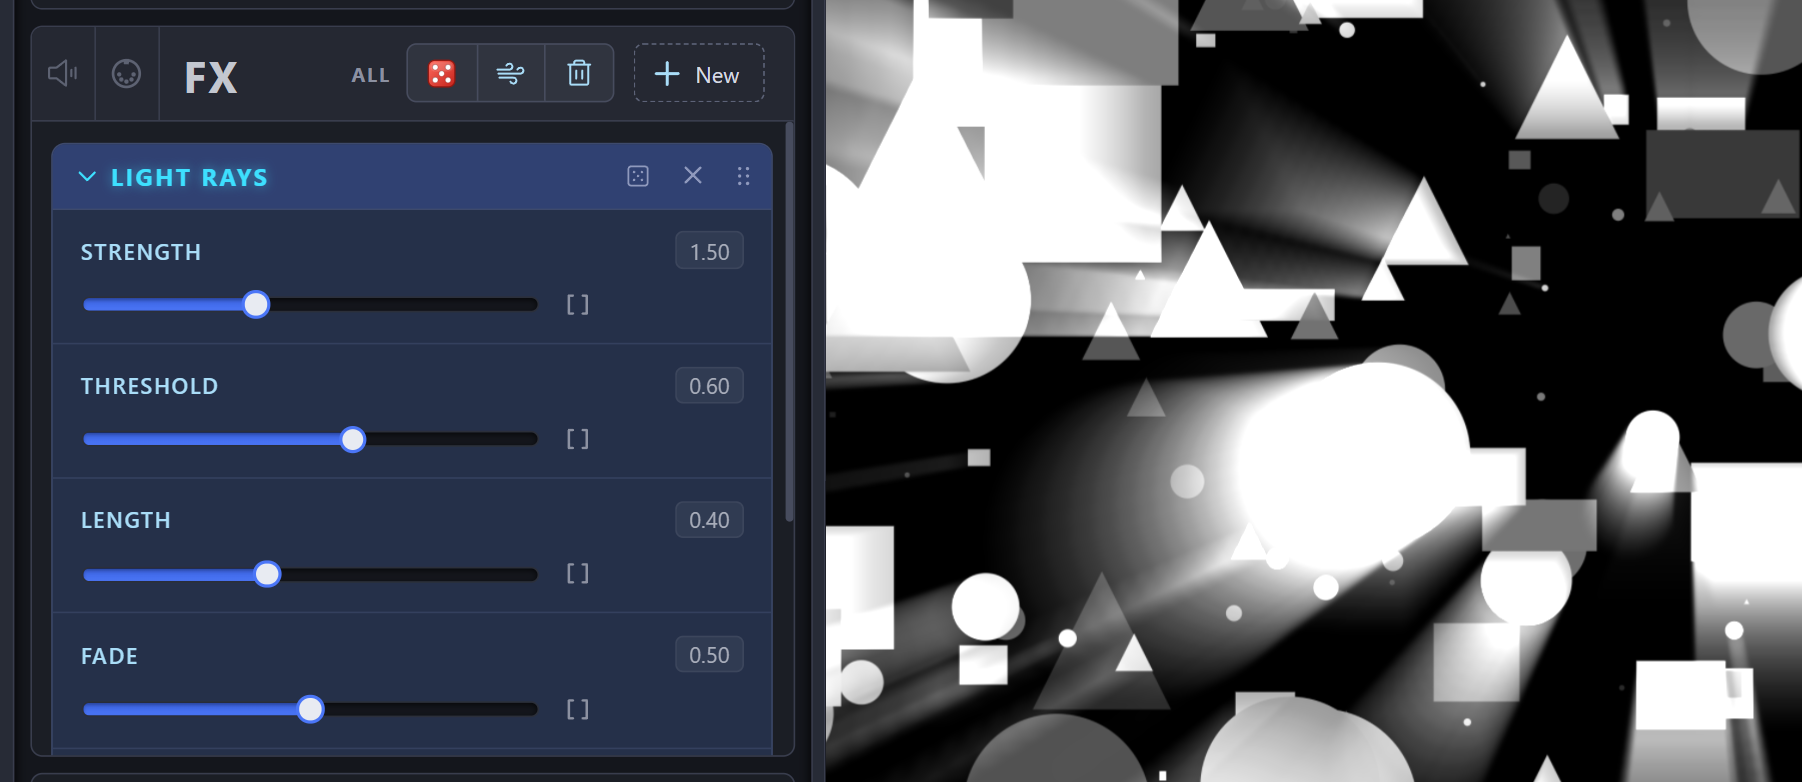
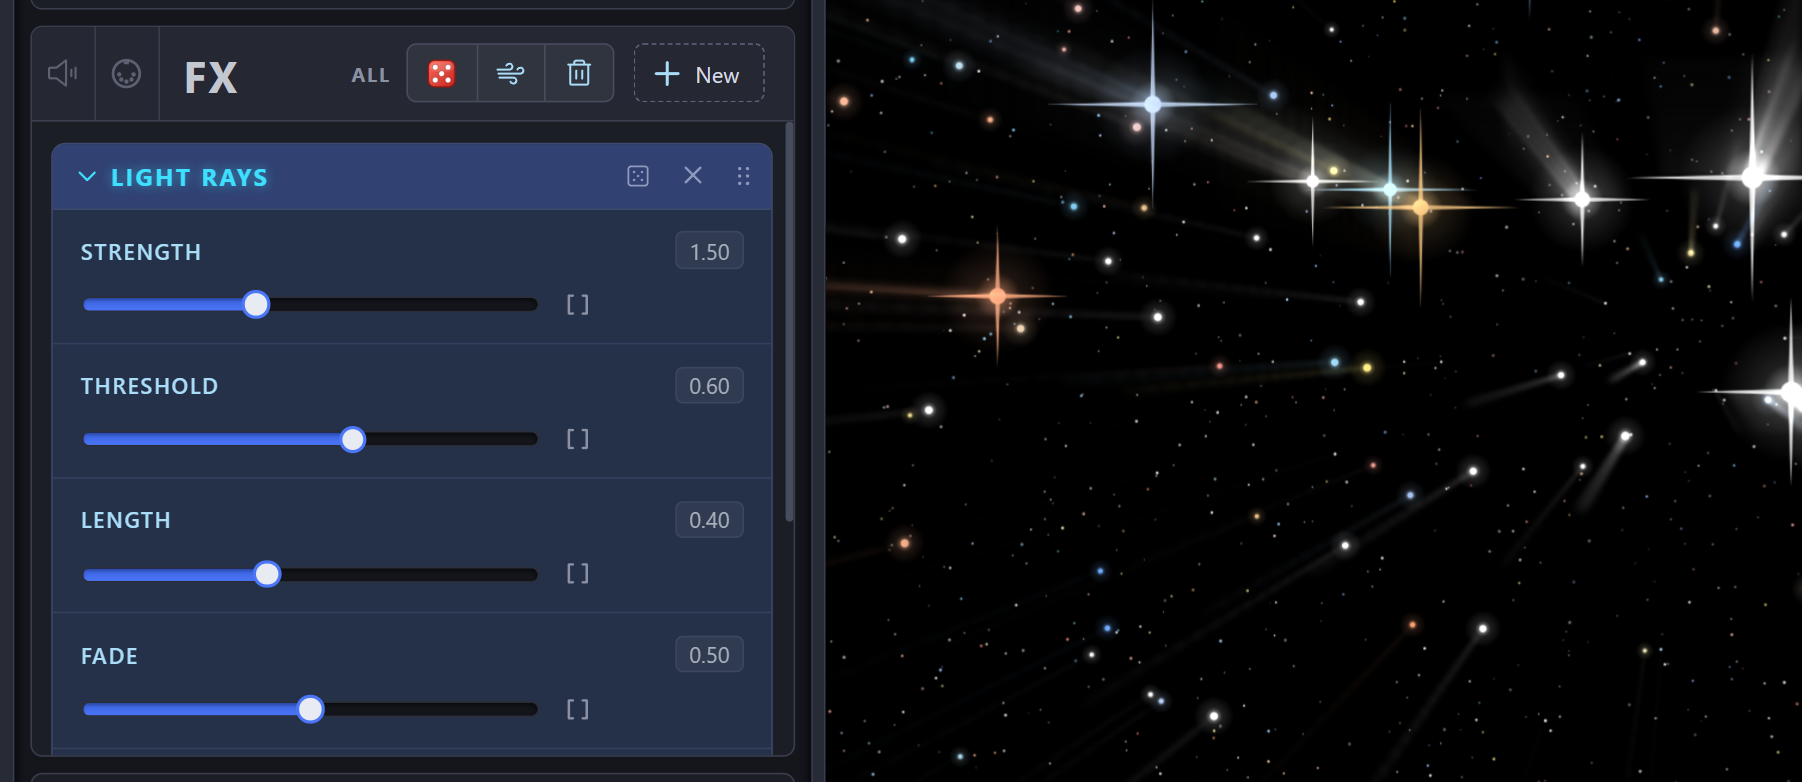
0.31.0: help and README for the 3D model effect, object-only effects, shared space and the new patterns

diff --git a/src/help/shots/effects.ts b/src/help/shots/effects.ts
@@ -115,12 +115,12 @@ const modelTile = (page: Page): HTMLElement => {
 
 export const EFFECTS: Shot[] = [
   /* Effects that shape space */
-  look({ effect: "Kaleidoscope", name: "kaleidoscope", pattern: "Random shapes" }),
-  look({ effect: "Kaleidoscope", name: "kaleidoscope-penrose", pattern: "Random shapes", adjust: (page) => pickMenu(page, "Kaleidoscope", "Type", "Penrose"), wide: true }),
-  look({ effect: "Kaleidoscope", name: "kaleidoscope-sphere", pattern: "Random shapes", adjust: (page) => pickMenu(page, "Kaleidoscope", "Type", "Sphere"), wide: true }),
-  look({ effect: "Kaleidoscope", name: "kaleidoscope-pinwheel", pattern: "Random shapes", adjust: (page) => pickMenu(page, "Kaleidoscope", "Type", "Pinwheel"), wide: true }),
-  look({ effect: "Kaleidoscope", name: "kaleidoscope-tunnel", pattern: "Random shapes", adjust: (page) => pickMenu(page, "Kaleidoscope", "Type", "Mirror tunnel"), wide: true }),
-  look({ effect: "Kaleidoscope", name: "kaleidoscope-fractal", pattern: "Random shapes", adjust: (page) => pickMenu(page, "Kaleidoscope", "Type", "Fractal"), wide: true }),
+  look({ effect: "Kaleidoscope", name: "kaleidoscope", pattern: "Truchet tiles" }),
+  look({ effect: "Kaleidoscope", name: "kaleidoscope-penrose", pattern: "Truchet tiles", adjust: (page) => pickMenu(page, "Kaleidoscope", "Type", "Penrose"), wide: true }),
+  look({ effect: "Kaleidoscope", name: "kaleidoscope-sphere", pattern: "Truchet tiles", adjust: (page) => pickMenu(page, "Kaleidoscope", "Type", "Sphere"), wide: true }),
+  look({ effect: "Kaleidoscope", name: "kaleidoscope-pinwheel", pattern: "Truchet tiles", adjust: (page) => pickMenu(page, "Kaleidoscope", "Type", "Pinwheel"), wide: true }),
+  look({ effect: "Kaleidoscope", name: "kaleidoscope-tunnel", pattern: "Truchet tiles", adjust: (page) => pickMenu(page, "Kaleidoscope", "Type", "Mirror tunnel"), wide: true }),
+  look({ effect: "Kaleidoscope", name: "kaleidoscope-fractal", pattern: "Truchet tiles", adjust: (page) => pickMenu(page, "Kaleidoscope", "Type", "Fractal"), wide: true }),
   look({ effect: "Algorithm", name: "algorithm", pattern: "Color grid", wait: 2500 }),
   look({ effect: "Warp", name: "warp" }),
   look({ effect: "Camera", name: "camera", wait: 2500 }),
@@ -148,19 +148,41 @@ export const EFFECTS: Shot[] = [
   look({ effect: "3D object", name: "solid", pattern: "Color grid", wait: 2500, wide: true }),
   {
     /**
-     * The model browser, which the Model shape opens when it has no model.
-     * It needs the internet. The browser's kept choices are set to a known
-     * start (Poly Haven, no search words, small pictures) and put back by
-     * the last shot of the group.
+     * Effects for the object only: a Kaleidoscope below the 3D object, with
+     * its check box set, mirrors the picture on the cube and not the
+     * background. The 3D object's controls must be open for the picture.
      */
-    name: "fx-solid-model-browser",
+    name: "fx-solid-effects",
     needs: "blank",
-    group: "fx-solid-model",
+    group: "fx-solid",
+    setup: async (page) => {
+      await addEffect(page, "Kaleidoscope");
+      if (!effectGroup(page, "3D object").classList.contains("open")) {
+        effectGroup(page, "3D object").querySelector<HTMLElement>(".panel-group-title")!.click();
+        await page.settle(500);
+      }
+      effectGroup(page, "3D object").querySelector<HTMLInputElement>(".panel-object-effects input")!.click();
+      effectGroup(page, "3D object").scrollIntoView({ block: "start" });
+      await page.settle(2500);
+    },
+    cursor: (page) => effectGroup(page, "3D object").querySelector(".panel-object-effects label")!,
+    cursorAt: [0.1, 0.6],
+    box: besidePicture(true)
+  },
+  {
+    /**
+     * The model browser, which a new 3D model effect opens when the scene
+     * has no model. It needs the internet. The browser's kept choices are
+     * set to a known start (Poly Haven, no search words, small pictures)
+     * and put back by the last shot of the group.
+     */
+    name: "fx-model-browser",
+    needs: "blank",
+    group: "fx-model",
     setup: async (page) => {
       keptBrowser = localStorage.getItem(MODEL_BROWSER_KEY);
       localStorage.setItem(MODEL_BROWSER_KEY, JSON.stringify({ source: "haven", words: "", category: "", order: "used", size: "1k" }));
-      await addEffect(page, "3D object");
-      await pickMenu(page, "3D object", "Shape", "Model");
+      await addEffect(page, "3D model");
       await page.waitFor(".model-browser-dialog");
       /** The list comes from Poly Haven; then the first pictures must load. */
       const end = Date.now() + 60000;
@@ -175,10 +197,10 @@ export const EFFECTS: Shot[] = [
     margin: [2, 20]
   },
   {
-    /** A click on the model downloads it; the picture shows the model with its own colors, beside the Model shape's settings. */
-    name: "fx-solid-model",
+    /** A click on the model downloads it; the picture shows the model with its own colors, beside the effect's settings. */
+    name: "fx-model",
     needs: "blank",
-    group: "fx-solid-model",
+    group: "fx-model",
     setup: async (page) => {
       modelTile(page).click();
       const end = Date.now() + 120000;
@@ -189,19 +211,25 @@ export const EFFECTS: Shot[] = [
     box: besidePicture(true)
   },
   {
-    /** The File row of the Model shape with the mouse on Browse, and the Pivot menu and the turn settings below it. */
-    name: "fx-solid-model-file",
+    /** The File row with the mouse on Search, and the Map menu and Map amount below it. */
+    name: "fx-model-file",
     needs: "blank",
-    group: "fx-solid-model",
-    /** A tall page, so the panel shows all six turn settings at one time. */
-    page: { width: 1280, height: 1250 },
+    group: "fx-model",
+    cursor: (page) => effectGroup(page, "3D model").querySelector('button[aria-label="Search for a 3D model"]')!,
+    target: (page) => [menuRow(page, "3D model", "File"), settingRow(page, "Map amount")],
+    margin: 22
+  },
+  {
+    /** A 3D object next to the 3D model in the list: its cube and the model are in one space, and go through each other. */
+    name: "fx-model-shared",
+    needs: "blank",
+    group: "fx-model",
     setup: async (page) => {
-      menuRow(page, "3D object", "File").scrollIntoView({ block: "start" });
-      await page.settle(300);
+      await addEffect(page, "3D object");
+      await pickMenu(page, "3D object", "Shape", "Cube");
+      await page.settle(3000);
     },
-    cursor: (page) => Array.from(effectGroup(page, "3D object").querySelectorAll<HTMLElement>("button")).find((item) => item.textContent?.trim().startsWith("Browse"))!,
-    target: (page) => [menuRow(page, "3D object", "File"), settingRow(page, "Spin Z")],
-    margin: 22,
+    box: besidePicture(true),
     cleanup: () => {
       if (keptBrowser === null) localStorage.removeItem(MODEL_BROWSER_KEY);
       else localStorage.setItem(MODEL_BROWSER_KEY, keptBrowser);
@@ -224,13 +252,13 @@ export const EFFECTS: Shot[] = [
     wait: 9000,
     wide: true
   }),
-  look({ effect: "Light rays", name: "rays", pattern: "Random shapes" }),
+  look({ effect: "Light rays", name: "rays", pattern: "Star field" }),
   look({ effect: "Lasers", name: "lasers", pattern: "Solid Black", wait: 2500, wide: true }),
-  look({ effect: "Light cone", name: "cone", pattern: "Random shapes", wait: 2500, wide: true }),
+  look({ effect: "Light cone", name: "cone", pattern: "Star field", wait: 2500, wide: true }),
   look({
     effect: "Light cone",
     name: "cone-shell",
-    pattern: "Random shapes",
+    pattern: "Star field",
     adjust: async (page) => {
       await pickMenu(page, "Light cone", "Type", "Laser shell");
       await pickMenu(page, "Light cone", "Shape", "Pyramid");
@@ -252,10 +280,10 @@ export const EFFECTS: Shot[] = [
     margin: 22
   },
   look({ effect: "Particles", name: "particles", pattern: "Color grid", adjust: (page) => setSlider(page, "Background", 0.15), wait: 6000 }),
-  look({ effect: "Bloom", name: "bloom", pattern: "Random shapes" }),
+  look({ effect: "Bloom", name: "bloom", pattern: "Star field" }),
 
   /* Effects for time, texture and color */
-  look({ effect: "Trails", name: "trails", pattern: "Random shapes", under: "Kaleidoscope", wait: 4000 }),
+  look({ effect: "Trails", name: "trails", pattern: "Sunburst", under: "Kaleidoscope", wait: 4000 }),
   look({
     effect: "Time smear",
     name: "smear",
@@ -279,7 +307,7 @@ export const EFFECTS: Shot[] = [
     target: (page) => [page.find(".tone-chips").closest(".panel-row") ?? page.find(".tone-chips")],
     margin: 22
   },
-  look({ effect: "Relief", name: "relief", pattern: "Random shapes", adjust: (page) => setSlider(page, "Relief depth", 0.6) }),
+  look({ effect: "Relief", name: "relief", pattern: "Rings", adjust: (page) => setSlider(page, "Relief depth", 0.6) }),
   look({ effect: "Pixel sort", name: "sort", pattern: "Color clouds" }),
   look({ effect: "Driver", name: "driver", wait: 2500 }),
   {
@@ -292,7 +320,7 @@ export const EFFECTS: Shot[] = [
       await page.settle(600);
     }
   },
-  look({ effect: "Text", name: "text", pattern: "Random shapes", adjust: (page) => setSlider(page, "Glow", 0.5), wide: true }),
+  look({ effect: "Text", name: "text", pattern: "Contour lines", adjust: (page) => setSlider(page, "Glow", 0.5), wide: true }),
   {
     /** The Text effect's Font box with the focus in it and its list open. */
     name: "fx-text-font",

diff --git a/src/help/chapters/EffectsSpace.tsx b/src/help/chapters/EffectsSpace.tsx
@@ -5,13 +5,13 @@ export function EffectsSpace() {
     <>
       <h1>Effects that shape space</h1>
       <p className="help-lead">
-        These seven effects change where each part of the picture goes. They mirror it, bend it, put it on
+        These eight effects change where each part of the picture goes. They mirror it, bend it, put it on
         a 3D shape, or fly a camera over it. Most scenes start with one of them.
       </p>
 
       <h2>How to read the effect chapters</h2>
       <p>
-        This chapter and the two after it describe all 29 effects. For each effect you find its function,
+        This chapter and the two after it describe all 30 effects. For each effect you find its function,
         the choices of its menus, and the settings that change the result most. Each picture shows the
         effect in a new scene, with its controls open in the <b>FX</b> card and the result beside them.
       </p>
@@ -184,34 +184,52 @@ export function EffectsSpace() {
       <Shot name="fx-solid" alt="The 3D object effect with a cube that carries the picture" side="block" />
       <p>
         3D object puts the picture on a shape that turns in space. The <b>Shape</b> menu has
-        twelve shapes: Sphere, Cube, Morph, Blobs, Wobbly ball, Spike ball, Octahedron, Icosahedron,
-        Pyramid, Menger sponge, Moravian star, and Model. Some shapes show more settings below the menu, such
+        eleven shapes: Sphere, Cube, Morph, Blobs, Wobbly ball, Spike ball, Octahedron, Icosahedron,
+        Pyramid, Menger sponge, and Moravian star. Some shapes show more settings below the menu, such
         as <b>Spikes</b> for the Spike ball or <b>Points</b> for the Moravian star.
       </p>
       <p>
-        The <b>Map</b> menu sets how the shape uses the picture. <b>Wrap</b> paints the picture on the
-        surface. <b>Project</b> makes the shape a glass lens that bends the picture behind
-        it. <b>Mirror</b> makes it chrome that reflects the picture.
-      </p>
-      <p>
         The <b>Source</b> menu selects the picture for the shape: <b>Slot A</b>, <b>Slot B</b>, or a file
-        of its own with <b>Image or Video</b>. <b>Spin</b> and <b>Tumble</b> turn the shape, <b>Tilt</b> leans
-        it, and <b>Shading</b>, <b>Shine</b> and <b>Shadow</b> set its light. <b>Background</b> sets how much
-        of the picture shows behind the shape.
+        of its own with <b>Image or Video</b>. The <b>Map</b> menu sets how the shape uses that
+        picture. <b>Wrap</b> paints the picture on the surface. <b>Project</b> makes the shape a glass
+        lens that bends the picture behind it. <b>Mirror</b> makes it chrome that reflects the picture.
       </p>
       <p>
-        With <b>Freeze background</b> on, the effects that come after the 3D object in the list change
-        only the picture on the shape. The background stays as it was.
+        <b>Spin</b> and <b>Tumble</b> turn the shape, <b>Tilt</b> leans it,
+        and <b>Shading</b>, <b>Shine</b> and <b>Shadow</b> set its light. <b>Center X</b>, <b>Center
+        Y</b> and <b>Center Z</b> move the shape left and right, up and down, and nearer and farther.
+        The effect draws only the shape. Around the shape you see the picture that the effects above it
+        made.
       </p>
 
-      <h3>A 3D model as the shape</h3>
-      <Shot name="fx-solid-model" alt="The 3D object effect with the Model shape and a model that shows its own colors" side="block" />
+      <h3>Effects for the object only</h3>
+      <Shot name="fx-solid-effects" alt="The list Effects for the object only with the mouse on the check box of Kaleidoscope, and a cube that shows the mirrored picture on a plain background" side="block" />
       <p>
-        The <b>Model</b> shape shows a 3D model from a file. In the <b>File</b> row, <b>Browse…</b> opens
-        the model browser, and <b>File…</b> picks a <b>.glb</b> file on this PC. The scene keeps a copy of
-        the model, so the project opens later with no connection.
+        The list <b>Effects for the object only</b> has a check box for each other effect of the scene.
+        Select a check box, and that effect changes only the picture on the shape. The rest of the
+        picture stays as it was. In the picture above, Kaleidoscope mirrors the picture on the cube, and
+        the background keeps its plain squares.
       </p>
-      <Shot name="fx-solid-model-browser" alt="The model browser with the Poly Haven tab, its search box and menus, and the mouse on a model" side="block" />
+      <p>
+        An effect with no check works by its place in the FX list. Above the 3D object, it changes the
+        picture behind the shape. Below the 3D object, it changes the whole result, the shape
+        included.
+      </p>
+
+      <h2>3D model</h2>
+      <Shot name="fx-model" alt="The 3D model effect with a model that shows its own colors" side="block" />
+      <p>
+        3D model shows a 3D model from a file, which turns in space. A new 3D model effect opens the
+        model browser, so that you can select a model immediately. The scene keeps a copy of the model,
+        so the project opens later with no connection.
+      </p>
+      <Shot name="fx-model-file" alt="The File row of the 3D model effect with the mouse on the Search button, and the Map menu and Map amount below it" />
+      <p>
+        The <b>File</b> row shows the name of the model and has three buttons. <b>Search</b> (the
+        magnifying glass) opens the model browser. <b>Open</b> (the folder) picks a <b>.glb</b> file on
+        this PC. <b>Clear</b> (the trash can) takes the model out of the scene.
+      </p>
+      <Shot name="fx-model-browser" alt="The model browser with the Poly Haven tab, its search box and menus, and the mouse on a model" side="block" />
       <p>
         The model browser has two tabs. <b>Poly Haven</b> has about 520 free models that need no
         account: search, select a <b>Category</b>, an <b>Order</b> and a <b>Textures</b> size, then click
@@ -220,22 +238,36 @@ export function EffectsSpace() {
         Sketchfab account gives you. Put the token in the token row one time.
       </p>
       <p>
-        With <b>Source</b> set to <b>Model</b>, the model shows its own colors and
-        materials. <b>Slot A</b>, <b>Slot B</b> or <b>Image or Video</b> puts your picture on the model
-        instead, with the <b>Map</b> menu as for the other shapes.
+        A model shows its own colors and materials. The <b>Map</b> menu can also put the picture behind
+        the model on its surface: <b>Wrap</b> paints it on, <b>Project</b> makes the model glass,
+        and <b>Mirror</b> makes it chrome. <b>Map amount</b> sets the mix. At 1 you see only the
+        model&apos;s own colors, and at 0 you see only the picture from the <b>Map</b> menu.
       </p>
-      <Shot name="fx-solid-model-file" alt="The File row of the Model shape with the mouse on Browse, and the Pivot menu and the Rotate and Spin settings below it" />
       <p>
-        The Model shape has its own turn settings. <b>Rotate X</b>, <b>Rotate Y</b> and <b>Rotate
-        Z</b> are angles that pose the model. <b>Spin X</b>, <b>Spin Y</b> and <b>Spin Z</b> turn it
-        around each axis at a speed in turns per minute. The <b>Pivot</b> menu sets the point that the
-        model turns around: <b>Center</b> is the middle of the model, and <b>Model's own</b> is the
-        point that its maker set, often at the base.
+        <b>Rotate X</b>, <b>Rotate Y</b> and <b>Rotate Z</b> are angles that pose the
+        model. <b>Spin X</b>, <b>Spin Y</b> and <b>Spin Z</b> turn it around each axis at a speed in
+        turns per minute. The model turns around its center. <b>Center X</b>, <b>Center
+        Y</b> and <b>Center Z</b> move it. The list <b>Effects for the object only</b> does the same as
+        in the 3D object effect: a checked effect changes only the model.
       </p>
       <Tip>
         Most Sketchfab models need a credit to their maker. The app writes the credit into the model
-        file. Point at the model's name in the <b>File</b> row to read it.
+        file. Point at the model&apos;s name in the <b>File</b> row to read it.
       </Tip>
+
+      <h3>A model and a 3D object in one space</h3>
+      <Shot name="fx-model-shared" alt="A 3D model and a cube of the 3D object effect that go through each other" side="block" />
+      <p>
+        When 3D model and 3D object are next to each other in the FX list, they share one space. The
+        nearer one hides the farther one, and they can go through each other. <b>Center Z</b> of each
+        effect moves its shape nearer (above 0) or farther (below 0).
+      </p>
+      <p>
+        With a different effect between them in the list, the two do not share a space: the upper one
+        becomes a flat part of the picture behind the lower one. An effect that has a check
+        in <b>Effects for the object only</b> does not count as an effect between them. One shape does
+        not put a shadow on the other.
+      </p>
     </>
   );
 }

diff --git a/src/help/chapters/SceneCard.tsx b/src/help/chapters/SceneCard.tsx
@@ -89,8 +89,8 @@ export function SceneCard() {
       </p>
       <ul>
         <li><b>Templates</b> are dark grounds for the effects that draw their own light: <b>Dark Stage</b> and <b>Solid Black</b>.</li>
-        <li><b>Repeating</b> patterns continue past their edges with no seam.</li>
-        <li><b>Not repeating</b> patterns include <b>Color clouds</b> and <b>Scattered lines</b>, which are different each time you select them.</li>
+        <li><b>Repeating</b> patterns continue past their edges with no seam: <b>Checkerboard</b>, <b>Dot grid</b>, <b>Color grid</b>, <b>Truchet tiles</b> (curved paths) and <b>Honeycomb</b>.</li>
+        <li><b>Not repeating</b> patterns have one picture with edges. <b>Center line</b> is always the same. <b>Rings</b>, <b>Sunburst</b>, <b>Star field</b>, <b>Spiral curves</b>, <b>Contour lines</b>, <b>Color clouds</b> and <b>Scattered lines</b> are different each time you select them. <b>Truchet tiles</b> and <b>Honeycomb</b> also change each time.</li>
       </ul>
       <p>
         When you put a pattern over a photo, Kaleido Sage keeps the photo. The slot then shows the photo

diff --git a/src/help/chapters/FxList.tsx b/src/help/chapters/FxList.tsx
@@ -18,7 +18,7 @@ export function FxList() {
       </p>
       <Shot name="fx-add-menu" alt="The Add an effect menu with the mouse on Bloom" side="block" />
       <p>
-        The menu lists the 29 effects in alphabetical order. Point at a name to see a small picture of the
+        The menu lists the 30 effects in alphabetical order. Point at a name to see a small picture of the
         effect and one line about its function. When an effect has more than one type, the small picture
         shows each type in turn, and a tag gives the number of types.
       </p>

diff --git a/README.md b/README.md
@@ -61,7 +61,7 @@ Use Kaleido Sage for:
 
 ### 1. Stack effects
 
-There are 29 effects, from Kaleidoscope and Mandelbrot to Lasers, Light cone, Particles, Spirograph, Text and real Terrain. Add them in any order. The picture goes through the list from top to bottom, so the order changes the result. Press `X` for new random settings, and lock the effects that you want to keep.
+There are 30 effects, from Kaleidoscope and Mandelbrot to Lasers, Light cone, Particles, Spirograph, Text and real Terrain. Add them in any order. The picture goes through the list from top to bottom, so the order changes the result. Press `X` for new random settings, and lock the effects that you want to keep.
 
 <p align="center">
   <img src="docs/readme/first-fx-menu.png" alt="The Add an effect menu with a preview of the Kaleidoscope effect" width="620">
@@ -89,7 +89,7 @@ Play full screen, cast to a projector or a second screen while the controls stay
 
 ## More than mirrors
 
-The effects go far past a kaleidoscope. **Terrain** flies a camera over real land, with heights and satellite pictures from the internet. **3D object** puts your picture on a turning shape of glass or chrome, or shows a 3D model from a `.glb` file or from the free models of Poly Haven and Sketchfab. **Light cycles**, **Lasers**, **Light cone**, **Light paths** and **Spirograph** draw with light, and **Particles** sends moving points of light out of the bright areas.
+The effects go far past a kaleidoscope. **Terrain** flies a camera over real land, with heights and satellite pictures from the internet. **3D object** puts your picture on a turning shape of glass or chrome. **3D model** shows a 3D model from a `.glb` file or from the free models of Poly Haven and Sketchfab, and the two share one space, so a model can go through a shape. **Light cycles**, **Lasers**, **Light cone**, **Light paths** and **Spirograph** draw with light, and **Particles** sends moving points of light out of the bright areas.
 
 <p align="center">
   <img src="docs/readme/fx-terrain.jpg" alt="The Terrain effect: its controls, and a camera view of real land of the Appalachians" width="760">
@@ -175,7 +175,7 @@ Add effects in any order. The picture goes through the list from top to bottom.
 |---|---|
 | **Mirrors and math** | Kaleidoscope (radial, triangle, hexagon, square, hyperbolic, Penrose, sphere, pinwheel, mirror tunnel, fractal), Algorithm (Mandelbrot, Julia, Möbius, Droste spiral, log spiral, seamless spiral, tunnel, sine, power), Bubble (circle, square, radial) |
 | **Motion and time** | Warp, Driver (caustics, smoke, ink, fire, ripples, video), Trails, Time smear, Pixel sort |
-| **3D** | 3D object (sphere, cube, morph, blobs, star, Menger sponge, 3D models from a file and more), Terrain, Camera |
+| **3D** | 3D object (sphere, cube, morph, blobs, star, Menger sponge and more), 3D model (from a file, Poly Haven or Sketchfab), Terrain, Camera |
 | **Light** | Bloom, Light rays, Lasers, Light cone (spotlight, laser shell; cone or pyramid), Light paths, Spirograph, Light shapes, Light cycles, Particles |
 | **Line and surface** | Contours, Relief, Sharpen, Blur |
 | **Color, text and layers** | Color, Levels, Opacity mask, Image or Video, Text (any installed font, glow, outline, shadow, scroll, type on) |
